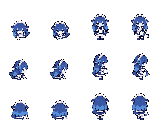
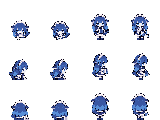
Fill holes left by tool stripping and fix stale preview
Watering-can and hoe frames had see-through gaps where the removed tool
covered the body; pixelize.py now fills enclosed holes and 1-pixel
notches from neighbouring colours, and drops floating fragments on every
sheet. The preview is now rendered from the installed assets instead of
an earlier intermediate run.

diff --git a/art/pixelize.py b/art/pixelize.py
@@ -148,31 +148,80 @@ if args.strip_tool:
                 near_body |= np.roll(np.roll(body, dy, 0), dx, 1)
         sheet[dark & ~near_body] = 0
 
-    # 工具的暗面颜色和头发描边太像，颜色规则抠不干净；每格只保留最大的那块（身体），飘着的碎片删掉
-    for ri in range(args.rows):
-        for ci in range(args.cols):
-            ys, xs = slice(ri * CELL_H, (ri + 1) * CELL_H), slice(ci * CELL_W, (ci + 1) * CELL_W)
-            a = sheet[ys, xs, 3] > 0
-            label = np.zeros(a.shape, dtype=int)
-            sizes = [0]
-            for sy, sx in zip(*np.where(a)):
-                if label[sy, sx]:
-                    continue
-                sizes.append(0)
-                stack = [(sy, sx)]
-                label[sy, sx] = len(sizes) - 1
-                while stack:
-                    y, x = stack.pop()
-                    sizes[-1] += 1
-                    for dy in (-1, 0, 1):
-                        for dx in (-1, 0, 1):
-                            ny, nx = y + dy, x + dx
-                            if 0 <= ny < a.shape[0] and 0 <= nx < a.shape[1] and a[ny, nx] and not label[ny, nx]:
-                                label[ny, nx] = len(sizes) - 1
-                                stack.append((ny, nx))
-            if len(sizes) > 2:
-                keep = int(np.argmax(sizes))
-                sheet[ys, xs][(label != keep) & a] = 0
+
+def grow(mask, n):
+    """八邻域膨胀 n 次（格子边界外当作空）。"""
+    for _ in range(n):
+        p = np.pad(mask, 1)
+        mask = np.zeros_like(mask)
+        for dy in (0, 1, 2):
+            for dx in (0, 1, 2):
+                mask |= p[dy:dy + mask.shape[0], dx:dx + mask.shape[1]]
+    return mask
+
+
+def outside(mask):
+    """从格子边缘出发，四邻域能走到的空白；走不到的空白就是身体里的洞。"""
+    out = np.zeros_like(mask)
+    stack = [(y, x) for y in range(mask.shape[0]) for x in (0, mask.shape[1] - 1) if not mask[y, x]]
+    stack += [(y, x) for x in range(mask.shape[1]) for y in (0, mask.shape[0] - 1) if not mask[y, x]]
+    for y, x in stack:
+        out[y, x] = True
+    while stack:
+        y, x = stack.pop()
+        for ny, nx in ((y + 1, x), (y - 1, x), (y, x + 1), (y, x - 1)):
+            if 0 <= ny < mask.shape[0] and 0 <= nx < mask.shape[1] and not mask[ny, nx] and not out[ny, nx]:
+                out[ny, nx] = True
+                stack.append((ny, nx))
+    return out
+
+
+for ri in range(args.rows):
+    for ci in range(args.cols):
+        cell = sheet[ri * CELL_H:(ri + 1) * CELL_H, ci * CELL_W:(ci + 1) * CELL_W]  # 视图，改它就是改 sheet
+        a = cell[..., 3] > 0
+
+        # 每格只保留最大的那块（身体）：飘着的工具碎片、闪光点之类都删掉
+        label = np.zeros(a.shape, dtype=int)
+        sizes = [0]
+        for sy, sx in zip(*np.where(a)):
+            if label[sy, sx]:
+                continue
+            sizes.append(0)
+            stack = [(sy, sx)]
+            label[sy, sx] = len(sizes) - 1
+            while stack:
+                y, x = stack.pop()
+                sizes[-1] += 1
+                for dy in (-1, 0, 1):
+                    for dx in (-1, 0, 1):
+                        ny, nx = y + dy, x + dx
+                        if 0 <= ny < a.shape[0] and 0 <= nx < a.shape[1] and a[ny, nx] and not label[ny, nx]:
+                            label[ny, nx] = len(sizes) - 1
+                            stack.append((ny, nx))
+        if len(sizes) > 2:
+            keep = int(np.argmax(sizes))
+            cell[(label != keep) & a] = 0
+            a = cell[..., 3] > 0
+
+        # 补洞：工具挡在身前，抠掉后身体中间会空一块。四面被身体围住的空白是洞；
+        # 再把轮廓"闭合"一格（膨胀 1 再收缩 1），补上 1~2 像素宽的小缺口（双脚之间的缝更宽，不会被填）。
+        # 然后用周围颜色一圈圈往里填
+        closed = ~grow(outside(grow(a, 1)), 1)
+        hole = ~a & (~outside(a) | closed)
+        while hole.any():
+            filled_any = False
+            for y, x in zip(*np.where(hole)):
+                nb = [cell[ny, nx] for ny, nx in ((y + 1, x), (y - 1, x), (y, x + 1), (y, x - 1))
+                      if 0 <= ny < a.shape[0] and 0 <= nx < a.shape[1] and cell[ny, nx, 3] > 0]
+                if nb:
+                    # 优先用非描边色，免得洞被填成一片黑
+                    light = [c for c in nb if c[:3].astype(int).mean() >= 70]
+                    cell[y, x] = (light or nb)[0]
+                    hole[y, x] = False
+                    filled_any = True
+            if not filled_any:
+                break
 
 Image.fromarray(sheet, "RGBA").save(args.out)
 if args.preview:
